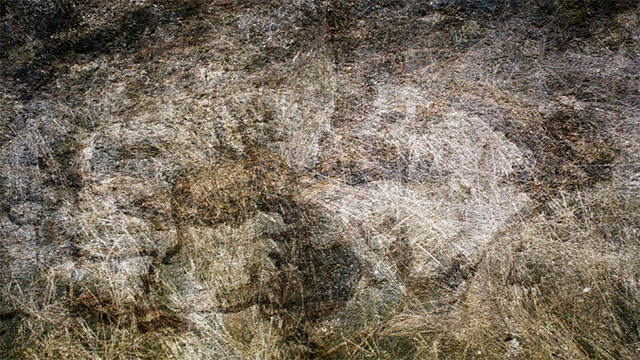
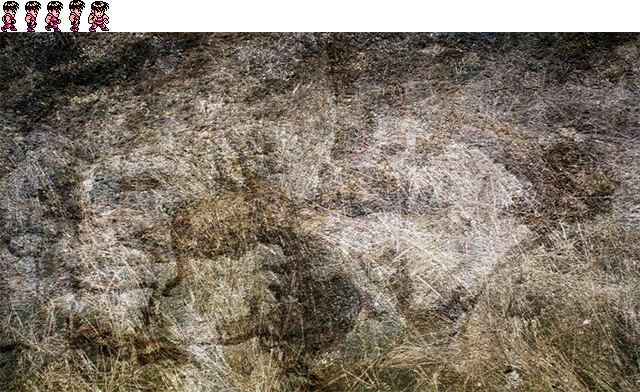
Разного рода поправки

diff --git a/www/lumberjucks/js/entities.js b/www/lumberjucks/js/entities.js
@@ -2,5 +2,26 @@
 let Entities = {
     init: function(data) {
 
+        let background = {
+            sprite: new Entities.helpers.Sprite(data.sprite, 0, 32, 640, 360),
+            x: 0,
+            y: 0,
+            w: 640,
+            h: 360
+        };
+
+        /* Добавляем картинку заднего фона в объект data */
+        data.entities = {};
+        data.entities.background = background;
+    },
+
+    helpers: {
+        Sprite: function(img, srcX, srcY, srcW, srcH) {
+            this.img = img;
+            this.srcX = srcX;
+            this.srcY = srcY;
+            this.srcW = srcW;
+            this.srcH = srcH;
+        }
     }
 };

diff --git a/www/lumberjucks/js/game.js b/www/lumberjucks/js/game.js
@@ -36,6 +36,7 @@ let Game = {
             Input.init(data);
             // Подготовка материала
             Entities.init(data);
+            Render.init(data);
             // Запуск анимации
             Game.run(data);
 

diff --git a/www/lumberjucks/js/Render.js b/www/lumberjucks/js/Render.js
@@ -1,0 +1,12 @@
+let Render = {
+    init: function(data){
+
+    },
+
+    helpers: {
+        drawIntitiy: function(entity, ctx) {
+            ctx.drawImage(entity.sprite.img,
+            )
+        }
+    }
+};

diff --git a/www/lumberjucks/index.html b/www/lumberjucks/index.html
@@ -12,6 +12,7 @@
 
     <script src="js/input.js"></script>
     <script src="js/entities.js"></script>
+    <script src="js/Render.js"></script>
     <script src="js/game.js"></script>
 </body>
 </html>

diff --git a/vscode/javascriptninzhya/README.MD b/vscode/javascriptninzhya/README.MD
@@ -1,104 +1,104 @@
 **JavaScript повсюду**
 > Общие представление
-`JavaScript намного более функционально ориентирован`
-`Функции являются объектами высшего порядка`
-`Замыкания функций`
-`Области видимости`
-`Объектная ориентация на основе прототипов`
+JavaScript намного более функционально ориентирован
+Функции являются объектами высшего порядка
+Замыкания функций
+Области видимости
+Объектная ориентация на основе прототипов
 > Дальнейшие развитие
-`Комитет ECMAScript преследует цель по внесению`
-`мелких ежегодных изменений в язык`
+Комитет ECMAScript преследует цель по внесению
+мелких ежегодных изменений в язык
 > Трансляторы
-`Некоторые браузеры неуспевают за циклом обновлений`
-`стандарта JS. Чтобы пользоваться всеми преимуществами`
-`стандарта, можно воспользоваться инструментами,`
-`преобразующими самый передовой код javascript в эквивалентный`
-`код, надлежащим образом действующий в большинстве браузеров.`
+Некоторые браузеры неуспевают за циклом обновлений
+стандарта JS. Чтобы пользоваться всеми преимуществами
+стандарта, можно воспользоваться инструментами,
+преобразующими самый передовой код javascript в эквивалентный
+код, надлежащим образом действующий в большинстве браузеров.
 > Общее представление о браузере
-`Объектная модель документа (DOM).`
-`События.`
-`API браузера - позволяет получить информацию об устройствах,`
-`сохранять данные локально.`
+Объектная модель документа (DOM).
+События.
+API браузера - позволяет получить информацию об устройствах,
+сохранять данные локально.
 > Нормы передовой практики
-`Чтобы стать по-настоящему квалифицированным разработчиком`
-`приложений на js, необходимо также освоить наилучшие образцы,`
-`приемы и способы, накопленные в программировании предыдущими поколениями`
-`разработчиков для написания качественного кода.`
+Чтобы стать по-настоящему квалифицированным разработчиком
+приложений на js, необходимо также освоить наилучшие образцы,
+приемы и способы, накопленные в программировании предыдущими поколениями
+разработчиков для написания качественного кода.
 > Отладка
-`За последние годы возможности отладки кода js значительно расширились,`
-`благодоря средствам web-разработки. Они предоставляют функциональные `
-`возможности, в том числе исследование модели DOM, отладка кода JS,`
-`редактирование стилей CSS.`
+За последние годы возможности отладки кода js значительно расширились,
+благодоря средствам web-разработки. Они предоставляют функциональные 
+возможности, в том числе исследование модели DOM, отладка кода JS,
+редактирование стилей CSS.
 > Тестирование
 > Анализ производительности
-`console.time("operation");`
-`// много инструкций`
-`console.timeEnd("operation");`
+console.time("operation");
+// много инструкций
+console.timeEnd("operation");
 > Переносимость навыков
-`HTML, CSS, интерфейс DOM API и JS были стандартизированы. Стал`
-`возможен подход как к веб-сайтам так и к веб-прилложениям. Применяя`
-`браузеры и Node.js, можно разрабатывать практически любой тип приложения.`
-`Настольные приложения. (NW.js and Electron)`
-`Приложения для мобильных устройств. (cordova.apache.org)`
-`Серверные приложения и приложения для встраиваемых устройств.`
+HTML, CSS, интерфейс DOM API и JS были стандартизированы. Стал
+возможен подход как к веб-сайтам так и к веб-прилложениям. Применяя
+браузеры и Node.js, можно разрабатывать практически любой тип приложения.
+Настольные приложения. (NW.js and Electron)
+Приложения для мобильных устройств. (cordova.apache.org)
+Серверные приложения и приложения для встраиваемых устройств.
 
 **Создание страницы в динамическом режиме**
 > Общее представление о жизненном цикле веб-приложения
-`== Начало жизненного цикла ==`
-`Пользователь вводит URL -->`
-`Браузер составляет запрос и посылает серверу -->`
-`Сервер выполняет действия и получает ресурс, посылает его клиенту -->`
-`Браузер обрабатывате код HTML,CSS и JS формирует в итоге страницу -->`
-`Браузер контролируте очередь событий, обрабатывая любые события по очереди -->`
-`Пользователь взаимодействует с элементами страницы -->`
-`Пользователь закрывате вуб-приложение -->`
-`== Конец жизненного цикла ==`
+== Начало жизненного цикла ==
+Пользователь вводит URL -->
+Браузер составляет запрос и посылает серверу -->
+Сервер выполняет действия и получает ресурс, посылает его клиенту -->
+Браузер обрабатывате код HTML,CSS и JS формирует в итоге страницу -->
+Браузер контролируте очередь событий, обрабатывая любые события по очереди -->
+Пользователь взаимодействует с элементами страницы -->
+Пользователь закрывате вуб-приложение -->
+== Конец жизненного цикла ==
 *Создание файла: /chapter_02/index.html*
 > Стадия создания страницы
-`Чтобы стало возможным взаимодействие с пользователем или отображение`
-`данного веб-приложения, необходимо сначала создать страницу.`
-`1.Синтаксический анализ HTML-разметки и построение DOM`
-`2.Выполнение кода JS.`
+Чтобы стало возможным взаимодействие с пользователем или отображение
+данного веб-приложения, необходимо сначала создать страницу.
+1.Синтаксический анализ HTML-разметки и построение DOM
+2.Выполнение кода JS.
 > Синтаксический анализ кода HTML и построение DOM
-`Стадия создания страницы начинается с получения браузером кода HTML`
-`В процессе создания страницы, браузер встретив эламент script приостанавливает`
-`построение модели DOM из кода HTML и начинает выполнение кода JS`
+Стадия создания страницы начинается с получения браузером кода HTML
+В процессе создания страницы, браузер встретив эламент script приостанавливает
+построение модели DOM из кода HTML и начинает выполнение кода JS
 > Выполнение кода JavaScript
-`Браузер предоставляет API через глобальный объект`
-`Объект window является исходным глобальным объектом, через который`
-`становятся доступными все остальные глобальные объекты, переменные и интерфйсы API`
-`РАЗЛИЧАЮТ два типа кода JS: глобальный и код функции`
+Браузер предоставляет API через глобальный объект
+Объект window является исходным глобальным объектом, через который
+становятся доступными все остальные глобальные объекты, переменные и интерфйсы API
+РАЗЛИЧАЮТ два типа кода JS: глобальный и код функции
 > Обработка событий
 > Общее представление
-`Среда выполнения браузера, действует по принцепу однопоточного выполнения`
-`Во время выпонения кода обработчика остальные события ждут своей очереди`
-`События могут наступить в непредсказуемый момент времени, поэтому их обработка`
-`и вызов функции их обработки происходить АСИНХРОННО`
+Среда выполнения браузера, действует по принцепу однопоточного выполнения
+Во время выпонения кода обработчика остальные события ждут своей очереди
+События могут наступить в непредсказуемый момент времени, поэтому их обработка
+и вызов функции их обработки происходить АСИНХРОННО
 > Регистрация обработчиков событий
-`Обработчики событий являются функциями, которые требуется выполнять всякий раз,`
-`когда конкретное событие.`
-`Присваивание функции специальным свойствам не рекомендуется, поскольку таким`
-`способом можно зарегистировать только одну функциую.`
+Обработчики событий являются функциями, которые требуется выполнять всякий раз,
+когда конкретное событие.
+Присваивание функции специальным свойствам не рекомендуется, поскольку таким
+способом можно зарегистировать только одну функциую.
 
 **Представление о функциях**
-`Функции относятся к котегории объектов высшего порядка, в JS они интерпритируются`
-`как другие объекты. На них, как на обычные типы данных, можно ссылаться с помощью переменных`
+Функции относятся к котегории объектов высшего порядка, в JS они интерпритируются
+как другие объекты. На них, как на обычные типы данных, можно ссылаться с помощью переменных
 > Главное отличие JS как языка функционального программирования
-`Функция является основным модульным исполняемым блоком`
-`━━━━━━━━━━━━━━━━━━━━━━━━━━━━━━━━━━━━━━━━━━━━━━━━━━━━━━━━━━━━━━━━━━━━━━━━━━━━━━━━━━━━━━━━━━━━━━━━━━`
-`Действия можно выполнить над функциями:`
-` создавать с помощью литералов: foo() {}`
-` присваивать переменным, элемениам массива и свойствам других объектов`
-`      var foo = function() {};`
-`      arr.push(function(){});`
-`      o.foo = function() {};`
-` передавать в качестве аргументов другим функциям`
-`      function f(dataF) {dataF()} f(function(){});`
-` возвращать в качестве значений из других функций`
-`      function foo() { return function() {} }`
-` наделять свойствами, которые можно динавмически создавать и присваивать им значения`
-`      var foo = function() {};`
-`      foo.variable = "hello";`
-`━━━━━━━━━━━━━━━━━━━━━━━━━━━━━━━━━━━━━━━━━━━━━━━━━━━━━━━━━━━━━━━━━━━━━━━━━━━━━━━━━━━━━━━━━━━━━━━━━━`
+Функция является основным модульным исполняемым блоком
+━━━━━━━━━━━━━━━━━━━━━━━━━━━━━━━━━━━━━━━━━━━━━━━━━━━━━━━━━━━━━━━━━━━━━━━━━━━━━━━━━━━━━━━━━━━━━━━━━━
+Действия можно выполнить над функциями:
+ создавать с помощью литералов: foo() {}
+ присваивать переменным, элемениам массива и свойствам других объектов
+      var foo = function() {};
+      arr.push(function(){});
+      o.foo = function() {};
+ передавать в качестве аргументов другим функциям
+      function f(dataF) {dataF()} f(function(){});
+ возвращать в качестве значений из других функций
+      function foo() { return function() {} }
+ наделять свойствами, которые можно динамически создавать и присваивать им значения
+      var foo = function() {};
+      foo.variable = "hello";
+━━━━━━━━━━━━━━━━━━━━━━━━━━━━━━━━━━━━━━━━━━━━━━━━━━━━━━━━━━━━━━━━━━━━━━━━━━━━━━━━━━━━━━━━━━━━━━━━━━
 > Функции обратного вызова
-65
+Функция устанавливается для последующего обратного ее вызова из какого-нибудь друго кода
